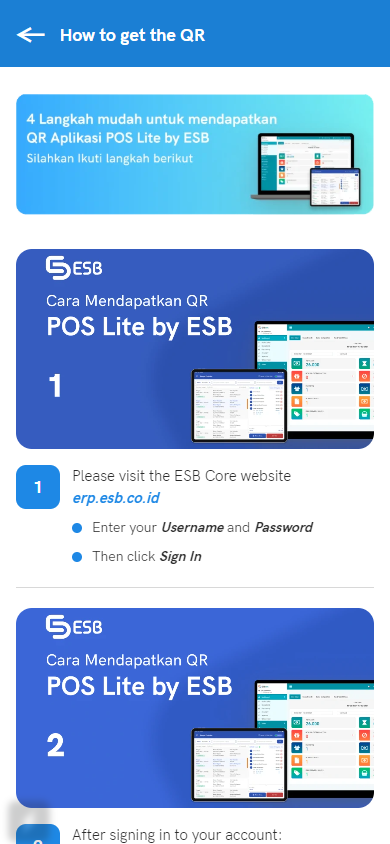
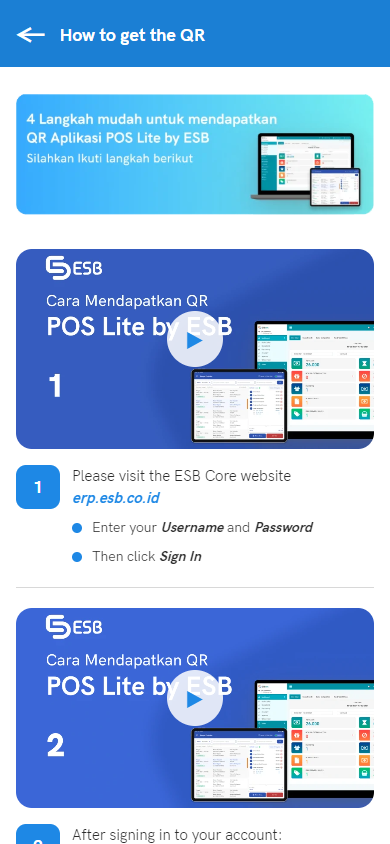
docs: audit QR-login device fixes + re-shot QrHow/QrScan
- Vonis: tujuan QrHow BENAR (how1-4 + /install-home/how-to-get-qr);
  gap = thumbnail video mati -> badge play + Alert (dc87b52).
- Kamera: QrScan auto-start native (dc87b52); web tetap manual.
- Re-shot phone-QrHow.png (badge play) + phone-QrScan.png.

Implementasi src ada di dc87b52; commit ini hanya audit + PNG.

Changed region(s): [[0.4308, 0.7701, 0.5846, 0.8626], [0.0, 0.9242, 0.1538, 1.0], [0.4308, 0.3697, 0.5846, 0.4621]]

diff --git a/docs/AUDIT-1V1.md b/docs/AUDIT-1V1.md
@@ -19,11 +19,11 @@
 | Pilih Cabang | ✅ | Panah ← dalam layar (tanpa navy header); pin `install_location_pin.webp`; spinner biru saat load; CTA stadium pucat saat loading/kosong |
 | Login email | ✅ | Ikon kartu/input/mata/gagal semua aset asli (`login_username_*`, `login_scanqr_*`, `username/password/show/hide.webp`, `fail_red.webp`); error merah + border merah; Masuk stadium penuh-oranye saat terisi, pucat saat kosong |
 | Login QR | ✅ | Ilustrasi + outline "Cara mendapatkan QR" + "Scan QR" glow; tanpa kotak-simulasi/manual (tidak ada di asli) |
-| QrHow (Cara mendapatkan QR) | ✅ | Header biru + banner `get_qr_banner*.webp` + 4 thumbnail `get_qr_thumbnail_*.webp` + teks langkah verbatim capture how1-4 |
+| QrHow (Cara mendapatkan QR) | ✅ | Header biru + banner `get_qr_banner*.webp` + 4 thumbnail `get_qr_thumbnail_*.webp` + teks langkah verbatim capture how1-4; badge play overlay + tap Alert (URL video asli tak pulih dari dossier — playback nyata tunggu BE/produk) |
 | Help (?) login | ✅ | QR WA asli `whatsapp_qr.webp`; logo ESB; "0822-1066-6969" strip; tombol "Oke" |
 | Show-pass / filled / error states | ✅ | Sesuai `login-showpass`, `05b-login-filled`, `login-error` (ikon abu saat normal, merah saat error) |
 | Ilustrasi tablet-QR mode login | ⏳ | Aproksimasi View (tidak ada aset ini di bundle); jika APK asli dibongkar dan ketemu, ganti Image |
-| Video tutorial QrHow (play) | ⏳ | Thumbnail statis; video butuh URL stream dari backend - belum ada kontraknya |
+| Video tutorial QrHow (play) | ⏳ | Badge play + Alert fallback SUDAH (2026-10-16); playback nyata butuh URL stream dari backend - belum ada kontraknya |
 | Search + kartu cabang | ➕ | Tidak ada di capture (capture = loading); dipertahankan untuk multi-cabang |
 | "Lupa PIN?" di Login | ➕ | Tidak ada di capture; dipertahankan (navigasi wajib, komitmen sebelumnya) |
 
@@ -35,7 +35,7 @@
 | Payment: Qris/Edc/Success/Receipt | ✅ | FauxQr dekoratif jujur (payload asli butuh merchant ID backend); Success orderNo deterministik; Cetak → Receipt dua form-factor; split-bill genap |
 | BillPreview/Cancel split & void | ✅ | Sisa genap; void split toggle; bayar-sisa → Pay; supervisor PIN via server |
 | Cashier ↔ Tables/Booking/Voucher/Member | ✅ | Mode TAKE AWAY; table attach; voucher menempel ke transaksi; riwayat member rp()+offline guard |
-| QrScan kamera | ✅ | CameraView QR asli + tab claim/esb/member/voucher (milik worker lain - jangan sentuh file ini) |
+| QrScan kamera | ✅ | CameraView QR asli + tab claim/esb/member/voucher; auto-start kamera+izin sistem saat mount di native (web tetap manual two-step); implementasi agen-wf saya, ter-commit dalam dc87b52 |
 | Receipt void-lines (T8) | ✅ | Cancel → Receipt oper `voidLines`+`reason`+`table`+`cashier`; Receipt render seksi void + shareText; key `rc_void_*` sudah ada di kamus `src/lib/i18n.ts:383-385` (milik worker lain); Props terima `table`/`cashier`/`customer`/`ongkir`; hardcode 38900/5000 sudah dihapus worker lain (T3 ikut maju) |
 | Shift/History/Cash/Settings | ⏳ | **JANGAN SENTUH** - sedang refactor i18n worker lain (tsc sempat merah `EsbStatus 'Batal'`, sudah hijau lagi 2026-10-16) |
 | Print fisik | ⏳ | `printReceipt` stub; modul `genfity-printer` milik worker lain |
